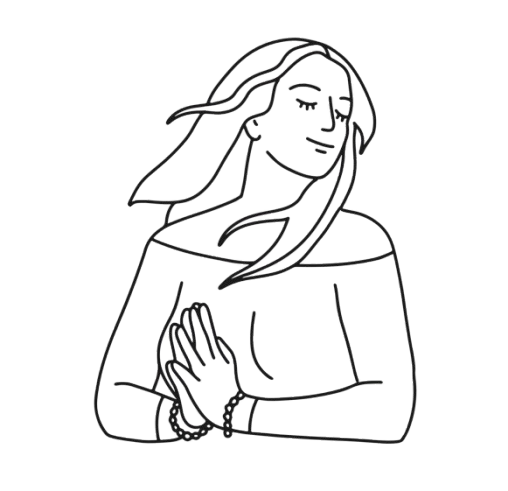
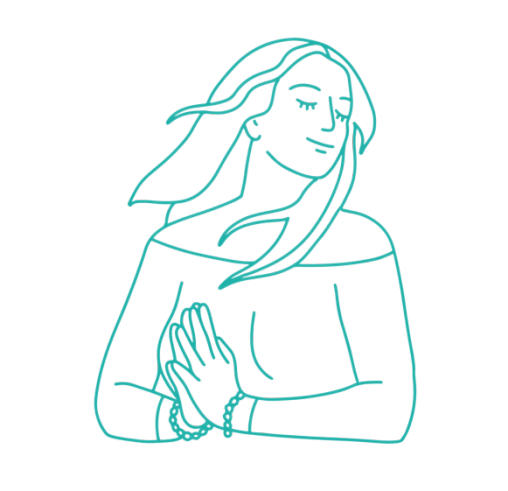
push updates

diff --git a/cygnet_square/src/components/Home/About.jsx b/cygnet_square/src/components/Home/About.jsx
@@ -1,21 +1,21 @@
-import right_img from '../../../public/assets/imgs/img1.jpg'
+import right_img from '/assets/imgs/img1.webp'
 import { Globe, Users, TrendingUp, ArrowRight, Heart } from 'lucide-react'
 
 const pillars = [
   {
     icon: Globe,
     title: 'Networking & Connection.',
-    body: 'Lorem ipsum dolor sit amet, consectetur adipiscing elit. Ut enim ad minim veniam quis nostrud exercitation ullamco.',
+    body: 'We create opportunities for women to build meaningful relationships through mentorship programs, peer support circles, and community meetups that foster trust, collaboration, and personal growth.',
   },
   {
     icon: Users,
     title: 'Capacity Building.',
-    body: 'Duis aute irure dolor in reprehenderit in voluptate velit esse cillum dolore eu fugiat nulla pariatur sint.',
+    body: 'We deliver practical, hands-on training in digital literacy, career development, financial management, entrepreneurship, leadership, and other essential life and workplace skills.',
   },
   {
     icon: TrendingUp,
     title: 'Economic Empowerment.',
-    body: 'Excepteur sint occaecat cupidatat non proident, sunt in culpa qui officia deserunt mollit anim id est laborum.',
+    body: 'We provide members with timely access to local opportunities, job postings, educational resources, and funding opportunities that promote long-term economic stability.',
   },
 ]
 
@@ -35,16 +35,13 @@ function About() {
         </h2>
 
         <p className="text-sm text-white/70 leading-relaxed mb-3">
-          Lorem ipsum dolor sit amet,{' '}
-          <strong>consectetur adipiscing elit, sed do eiusmod</strong> tempor
-          incididunt ut labore et dolore magna aliqua. Ut enim ad minim veniam,
-          quis nostrud exercitation ullamco laboris nisi ut aliquip ex ea
-          commodo consequat.
+          Cygnet Square is an {' '}
+          <strong>inclusive, resourceful, and resilient </strong> organization built to bring WOMEN together,
         </p>
         <p className="text-sm text-white/70 leading-relaxed mb-7">
-          Duis aute irure dolor in reprehenderit in voluptate velit esse cillum
-          dolore eu fugiat nulla pariatur. Excepteur sint occaecat cupidatat non
-          proident, sunt in culpa qui officia deserunt mollit anim id est laborum.
+          We create opportunities for women to connect, grow, and thrive through inclusive networking programs, 
+          hands-on skills development workshops, and access to essential resources. Rooted in community and driven by purpose, 
+          we equip women with the tools, relationships, and knowledge they need to build independent and financially secure lives. Because when women rise together, entire communities are transformed
         </p>
 
         <div className="flex flex-col gap-3 mb-8">
@@ -65,7 +62,7 @@ function About() {
         </div>
 
         <a
-          href="#"
+          href="/about"
           className="inline-flex items-center gap-2 bg-[#20B2AA]/30 hover:bg-[#085041]/20 transition-all duration-250 text-white text-sm font-medium px-6 py-3 rounded-lg"
         >
           Learn more about us <ArrowRight className="w-4 h-4" />

diff --git a/cygnet_square/src/components/Home/Support.jsx b/cygnet_square/src/components/Home/Support.jsx
@@ -1,23 +1,23 @@
 import { User } from 'lucide-react'
-import right_img from '../../../public/assets/imgs/img2.jpg'
+import right_img from '/assets/imgs/img2.webp'
 
 const pillars = [
   {
     num: '01',
     title: 'Financial & Digital Literacy',
-    body: 'Lorem ipsum dolor sit amet consectetur adipiscing elit sed do eiusmod tempor incididunt labore dolore.',
+    body: 'We equip women with practical financial management and digital skills through hands-on workshops, helping them build confidence, improve employability, and achieve greater economic independence.',
   },
   {
     num: '02',
     title: 'Social Participation & Diversity',
-    body: 'Duis aute irure dolor in reprehenderit in voluptate velit esse cillum dolore eu fugiat nulla pariatur.',
+    body: 'We foster an inclusive community where women from diverse backgrounds can connect, collaborate, and grow through mentorship, networking events, and supportive peer relationships.',
   },
   {
     num: '03',
     title: 'Access & Mobility Support',
-    body: 'Excepteur sint occaecat cupidatat non proident sunt in culpa qui officia deserunt mollit anim laborum.',
+    body: 'We connect women with valuable opportunities, community resources, educational programs, and essential services that remove barriers and support personal and professional growth.',
   },
-]
+];
 
 function Support() {
   return (
@@ -37,9 +37,7 @@ function Support() {
         <div className="w-10 h-px bg-gold my-5" />
 
         <p className="text-sm text-white/60 leading-relaxed mb-10">
-          Lorem ipsum dolor sit amet, consectetur adipiscing elit, sed do
-          eiusmod tempor incididunt ut labore et dolore magna aliqua ut enim
-          veniam.
+          We turn our mission into meaningful impact by focusing on three key areas of practical, community-driven support.
         </p>
 
         <div className="flex flex-col">
@@ -82,8 +80,7 @@ function Support() {
 
         <div className="bg-white/70 rounded-2xl p-6 border-l-4 border-gold-dark">
           <p className="text-base italic text-base-dark leading-relaxed mb-4">
-            "Lorem ipsum dolor sit amet consectetur adipiscing elit, sed do
-            eiusmod tempor incididunt ut labore et dolore magna aliqua."
+            "Financial independence begins with knowledge. We help women develop practical financial and digital skills, from budgeting and online tools to career readiness and business development, enabling them to thrive in an increasingly digital world."
           </p>
           <div className="flex items-center gap-3">
             <div className="w-7 h-7 bg-accent-light rounded-full flex items-center justify-center flex-shrink-0">

diff --git a/cygnet_square/src/components/About/WhyWeStarted.jsx b/cygnet_square/src/components/About/WhyWeStarted.jsx
@@ -17,18 +17,19 @@ function WhyWeStarted() {
         <div className="w-10 h-px bg-gold my-5" />
 
         <p className="text-sm text-accent-light opacity-75 leading-loose mb-5">
-          Lorem ipsum dolor sit amet,{' '}
+          Cygnet Square was founded on the belief that{' '}
           <strong className="text-on-base">
-            consectetur adipiscing elit sed do eiusmod
+            no woman should face life's challenges alone.
           </strong>{' '}
-          tempor incididunt ut labore et dolore magna aliqua ut enim ad minim
-          veniam quis nostrud exercitation ullamco laboris nisi ut aliquip.
+          Across many communities, women continue to encounter barriers to opportunity, 
+          limited access to essential resources, and a lack of supportive networks that enable personal and economic growth. 
+          We recognized the need for a space where women could connect, learn, and uplift one another.
         </p>
 
         <p className="text-sm text-accent-light opacity-75 leading-loose">
-          Duis aute irure dolor in reprehenderit in voluptate velit esse
-          cillum dolore eu fugiat nulla pariatur. Excepteur sint occaecat
-          cupidatat non proident, sunt in culpa qui officia deserunt mollit.
+          Our journey began with a simple purpose: to create an inclusive community that equips women with practical skills, 
+          meaningful relationships, and access to opportunities that foster confidence, independence, and long-term success.
+          Today, that purpose continues to inspire everything we do as we work toward building stronger women, stronger families, and stronger communities.
         </p>
       </div>
 

diff --git a/cygnet_square/src/components/Home/Hero.jsx b/cygnet_square/src/components/Home/Hero.jsx
@@ -1,4 +1,4 @@
-import heroBg from '../../../public/assets/imgs/hero.png'
+import heroBg from '/assets/imgs/hero.png'
 
 function Hero() {
   return (
@@ -6,28 +6,27 @@ function Hero() {
       <div className="flex flex-col md:flex-row gap-10 lg:gap-14 items-center">
         <div className="max-w-2xl">
           <span className="text-[11px] tracking-widest uppercase text-gold font-medium">
-            Empowered Women. Inclusive Communities.
+            Inclusive ·  Resourceful · Resilient
           </span>
 
           <h1 className="text-5xl heading leading-tight mt-4 mb-6 tracking-tight">
-            Where women and communities come to grow.
+            Where women come to connect, grow and thrive.
           </h1>
 
           <p className="text-white/60 leading-relaxed mb-8 max-w-lg">
-            Inclusive networking, capacity-building workshops, and access to
-            information that drives social and economic growth — for women who
-            deserve more.
+            We create opportunities for women through networking programs, skills development and access
+            to essential resources and empowering independent, financially secure lives.
           </p>
 
           <div className="flex gap-3 items-center flex-wrap">
             <a
-              href="#"
+              href="/contact"
               className="bg-gold text-on-base text-sm font-medium px-6 py-3 rounded-lg"
             >
               Join the community
             </a>
             <a
-              href="#"
+              href="/about"
               className="text-base-dark text-sm font-medium border-b border-base-mid-25 pb-0.5"
             >
               Learn more →

diff --git a/cygnet_square/src/components/shared/CTA.jsx b/cygnet_square/src/components/shared/CTA.jsx
@@ -9,21 +9,21 @@ function CTA() {
       <div className="w-10 h-px bg-gold-dark mx-auto mb-6" />
 
       <p className="text-sm text-accent-light opacity-75 leading-relaxed max-w-md mx-auto mb-8">
-        Lorem ipsum dolor sit amet, consectetur adipiscing elit. Sed do
-        eiusmod tempor incididunt ut labore et dolore magna aliqua ut enim ad
-        minim veniam.
+        Whether you want to volunteer, partner with us, or simply learn more —
+        we'd love to hear from you. Every connection brings us closer to a world
+        where every woman can thrive.
       </p>
 
       <div className="flex gap-3 justify-center flex-wrap">
         <a
-          href="#"
-          className="bg-gold-dark text-on-base text-sm font-medium px-7 py-3 rounded-lg"
+          href="/contact"
+          className="bg-gold-dark text-on-base hover:bg-white/10 transition-all duration-300 text-sm font-medium px-7 py-3 rounded-lg"
         >
           Get in Touch
         </a>
         <a
-          href="#"
-          className="bg-white/[0.08] border border-white/20 text-on-base text-sm font-medium px-7 py-3 rounded-lg"
+          href="/about"
+          className="bg-white/[0.08] border border-white/20 text-on-base hover:bg-white/10 transition-all duration-300 text-sm font-medium px-7 py-3 rounded-lg"
         >
           Learn About Us
         </a>

diff --git a/cygnet_square/src/components/Home/Features.jsx b/cygnet_square/src/components/Home/Features.jsx
@@ -1,4 +1,4 @@
-import right_img from '/assets/imgs/img3.jpg'
+import right_img from '/assets/imgs/img3.webp'
 function Features() {
   const stats = [
     { icon: 'ti-users', label: 'Participants', value: '500+' },
@@ -8,12 +8,12 @@ function Features() {
   ]
 
   return (
-    <section className="bg-base rounded-t-xl p-10 grid md:grid-cols-2 grid-cols-1 gap-10 items-center" data-aos="fade-up">
+    <section className="bg-base rounded-t-xl p-10 grid md:grid-cols-2 grid-cols-1 gap-10 items-center">
 
       {/* Left — image + mini chart */}
       <div className="rounded-xl overflow-hidden bg-base min-h-[360px] relative flex flex-col justify-end">
         <picture>
-          <source type="image/jpg" srcSet="/assets/imgs/img3.jpg" />
+          <source type="image/webp" srcSet="/assets/imgs/img3.webp" />
           <img
             src={right_img}
             alt="Cygnet Square community members"
@@ -44,7 +44,7 @@ function Features() {
       </div>
 
       {/* Right — copy + stats */}
-      <div>
+      <div  data-aos="fade-up">
         <span className="text-[11px] tracking-widest uppercase text-gold font-medium border border-gold px-3 py-1 rounded-full">
           Community impact
         </span>
@@ -54,9 +54,8 @@ function Features() {
         </h2>
 
         <p className="text-sm text-white/60 leading-relaxed mb-6">
-          We bring together newcomer women, seniors, BIPOC communities, and
-          low-income families — giving them the tools, networks, and knowledge
-          to thrive socially and economically.
+          By combining a supportive, community-driven approach with modern tools, we empower women to build independent, safe and financially secure lives
+          while fostering meaningful connections that promote long-term economic stability.
         </p>
 
         <div className="grid grid-cols-2 gap-2.5">

diff --git a/cygnet_square/src/components/About/OurApproach.jsx b/cygnet_square/src/components/About/OurApproach.jsx
@@ -5,19 +5,19 @@ const pillars = [
     num: '01',
     icon: Users,
     title: 'Networking & Connection',
-    body: 'Lorem ipsum dolor sit amet consectetur adipiscing elit sed do eiusmod tempor incididunt ut labore et dolore magna aliqua.',
+    body: 'We create safe and inclusive spaces where women can build meaningful relationships, connect with mentors, exchange experiences, and grow through collaboration. By strengthening support networks, we foster confidence, belonging, and lasting community impact.',
   },
   {
     num: '02',
     icon: Lightbulb,
     title: 'Capacity Building',
-    body: 'Ut enim ad minim veniam quis nostrud exercitation ullamco laboris nisi ut aliquip ex ea commodo consequat.',
+    body: 'Through practical workshops, mentorship, and hands-on training, we equip women with the knowledge, digital skills, financial literacy, and leadership capabilities needed to unlock opportunities and thrive in an ever-changing world.',
   },
   {
     num: '03',
     icon: TrendingUp,
     title: 'Economic Empowerment',
-    body: 'Duis aute irure dolor in reprehenderit in voluptate velit esse cillum dolore eu fugiat nulla pariatur.',
+    body: 'We connect women with resources, career pathways, entrepreneurial opportunities, and financial education that promote independence, sustainable livelihoods, and long-term economic resilience.',
   },
 ]
 
@@ -31,8 +31,10 @@ function OurApproach() {
         </h2>
         <div className="w-10 h-px bg-gold mx-auto mb-5" />
         <p className="text-sm text-white/60 leading-relaxed">
-          Lorem ipsum dolor sit amet consectetur adipiscing elit sed do
-          eiusmod tempor incididunt ut labore et dolore magna aliqua.
+          Our approach combines meaningful connections, practical skills development,
+          and access to opportunities to empower women at every stage of their journey.
+          Together, these pillars create lasting pathways toward confidence,
+          independence, and sustainable growth.
         </p>
       </div>
 

diff --git a/cygnet_square/src/components/About/AboutHero.jsx b/cygnet_square/src/components/About/AboutHero.jsx
@@ -1,4 +1,4 @@
-import right_img from '/assets/imgs/img3.jpg'
+import right_img from '/assets/imgs/img3.webp'
 function AboutHero() {
   return (
     <section className="bg-accent-light px-12 py-16" data-aos="fade-up">
@@ -16,15 +16,16 @@ function AboutHero() {
         <div className="w-10 h-px bg-gold mx-auto mb-6" />
 
         <p className="text-sm text-white/60 leading-relaxed">
-          Lorem ipsum dolor sit amet, consectetur adipiscing elit, sed do
-          eiusmod tempor incididunt ut labore et dolore magna aliqua ut enim
-          ad minim veniam quis nostrud exercitation ullamco laboris.
+          Cygnet Square is an inclusive and resilient organization that brings women together to connect, 
+          learn, and grow. Through a supportive community built on collaboration, diversity, and shared experiences,
+          we create opportunities that empower women to overcome barriers, develop practical skills, and build brighter, 
+          more independent futures.
         </p>
       </div>
 
       <div className="bg-base-mid rounded-2xl min-h-[320px] relative overflow-hidden">
         <picture>
-          <source type="image/jpg" srcSet="/assets/imgs/img4.jpg" />
+          <source type="image/webp" srcSet="/assets/imgs/img4.webp" />
           <img
             src={right_img}
             alt="Cygnet Square community"

diff --git a/cygnet_square/src/components/shared/Footer.jsx b/cygnet_square/src/components/shared/Footer.jsx
@@ -1,8 +1,8 @@
 import { Camera, ArrowRight, Feather } from 'lucide-react'
 import { FaInstagram, FaLinkedin, FaFacebookF} from 'react-icons/fa'
-import logo from '../../../public/assets/logos/logolight.png'
+import logo from '/assets/logos/logolight.png'
 
-const navLinks = ['Home', 'About', 'Events', 'Support', 'Contact']
+const navLinks = [{ label: 'Home', href: '/' }, { label: 'About', href: '/about' }, { label: 'Contact', href: '/contact' }]
 const programs = ['Digital Literacy', 'Networking', 'Capacity Building', 'Mentorship']
 const socials = [FaInstagram, FaLinkedin, FaFacebookF]
 
@@ -39,8 +39,8 @@ function Footer() {
           <p className="text-[11px] tracking-widest uppercase text-gold-dark font-medium mb-5">Navigate</p>
           <div className="flex flex-col gap-2.5">
             {navLinks.map((link) => (
-              <a key={link} href="#" className="text-sm text-accent-light opacity-75 hover:text-on-base transition-colors">
-                {link}
+              <a key={link.label} href={link.href} className="text-sm text-accent-light opacity-75 hover:text-on-base transition-colors">
+                {link.label}
               </a>
             ))}
           </div>

diff --git a/cygnet_square/index.html b/cygnet_square/index.html
@@ -2,9 +2,12 @@
 <html lang="en">
   <head>
     <meta charset="UTF-8" />
-    <link rel="icon" type="image/png" href="/assets/logos/logolight.png" />
+    <link rel="icon" type="image/png" href="/assets/logos/cygnet_logo_mark_white.png" />
     <meta name="viewport" content="width=device-width, initial-scale=1.0" />
-    <title>cygnet_square</title>
+    <title>Cygnet Square</title>
+    <meta name="description" content="Cygnet Square is an inclusive, resourceful, and resilient organization built to bring WOMEN together" />
+    <meta name="keywords" content="Cygnet Square, Women Empowerment, Inclusive, Resourceful, Resilient" />
+    <meta name="author" content="Cygnet Square" />
   </head>
   <body>
     <div id="root"></div>

diff --git a/cygnet_square/src/components/Home/Events.jsx b/cygnet_square/src/components/Home/Events.jsx
@@ -39,9 +39,8 @@ function Events() {
             <span className="text-gold">capacity-building events</span>
           </h2>
             <p className="text-sm text-white/60 leading-relaxed">
-            Join our workshops, networking mixers, and panels — designed to equip
-            women from underserved communities with real tools for social and
-            economic growth.
+               We create opportunities for women to build meaningful relationships through mentorship programs, peer support circles, networking events, and
+               community meetups that foster trust, collaboration, and personal growth.
             </p>
         </div>
       </div>

diff --git a/cygnet_square/src/components/Team/TeamSection.jsx b/cygnet_square/src/components/Team/TeamSection.jsx
@@ -26,14 +26,14 @@ function TeamSection() {
           <Heart className="w-3.5 h-3.5" /> Our Leadership
         </span>
 
-        <h2 className="text-3xl font-normal text-base-dark leading-snug tracking-tight mb-5">
+        <h2 className="text-3xl font-normal text-accent leading-snug tracking-tight mb-5">
           Meet the people <br />
           <em className="italic text-gold-dark">behind the mission.</em>
         </h2>
 
         <div className="w-10 h-px bg-gold-dark mx-auto mb-6" />
 
-        <p className="text-sm text-base-mid leading-relaxed">
+        <p className="text-sm text-white/60 leading-relaxed">
           Lorem ipsum dolor sit amet, consectetur adipiscing elit, sed do
           eiusmod tempor incididunt ut labore et dolore magna aliqua ut enim
           ad minim veniam.